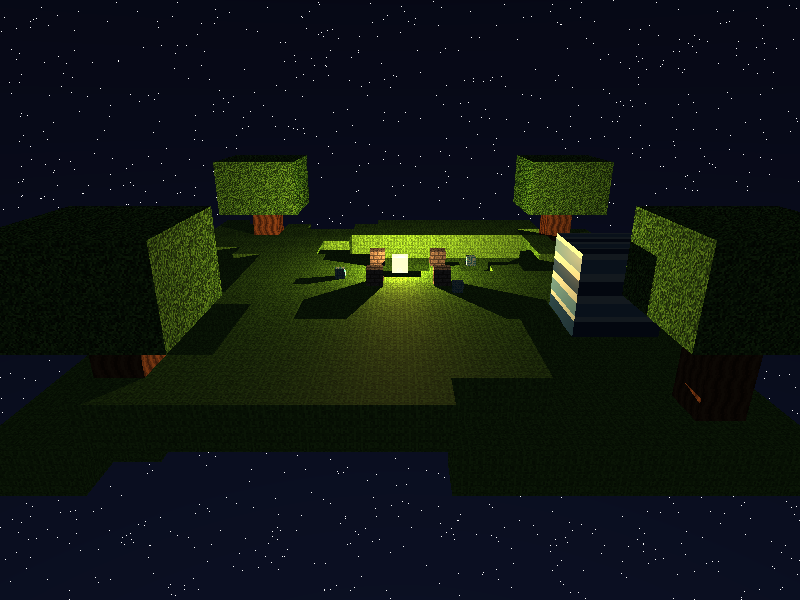
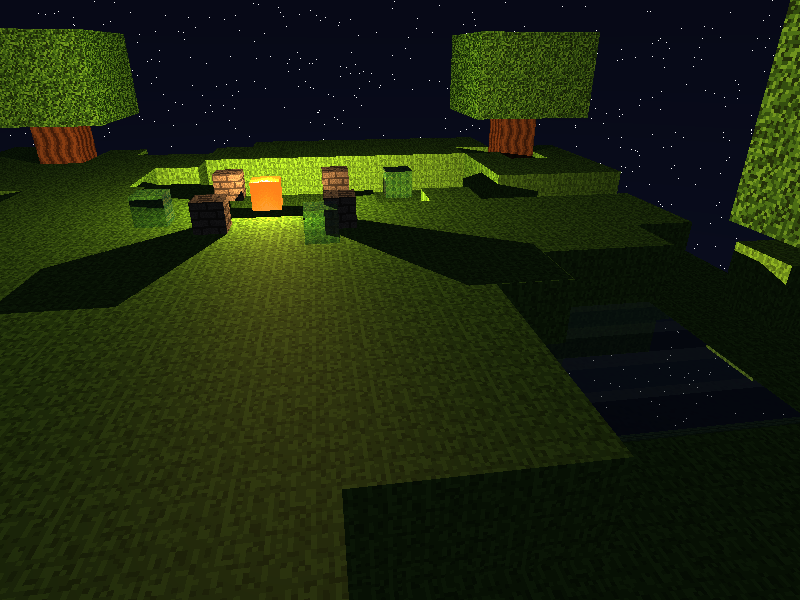
feat(camera): Se ajusta el encuadre inicial hacia el agua y gemas y se actualiza la captura de pantalla.

diff --git a/src/main.rs b/src/main.rs
@@ -27,13 +27,16 @@ fn main() {
     // 1. Asegurar que todos los assets requeridos existan en disco
     texture_gen::generate_all_assets();
 
+    let args: Vec<String> = std::env::args().collect();
+    let headless = args.iter().any(|a| a == "--screenshot");
+
     // 2. Crear la escena y cargar texturas en CPU
     let mut scene = Scene::campfire_diorama();
     scene.load_textures(&mut rl, &thread);
 
     let mut camera = Camera::new(
-        Vector3::new(0.0, 8.0, 16.0),
-        Vector3::new(0.0, 2.0, 0.0),
+        Vector3::new(1.0, 5.5, 9.5),
+        Vector3::new(2.0, 2.3, 2.8),
         Vector3::new(0.0, 1.0, 0.0),
     );
 
@@ -73,6 +76,9 @@ fn main() {
                 }
                 img.export_image("screenshot.png");
                 screenshot_saved = true;
+                if headless {
+                    break;
+                }
             }
         }
 
